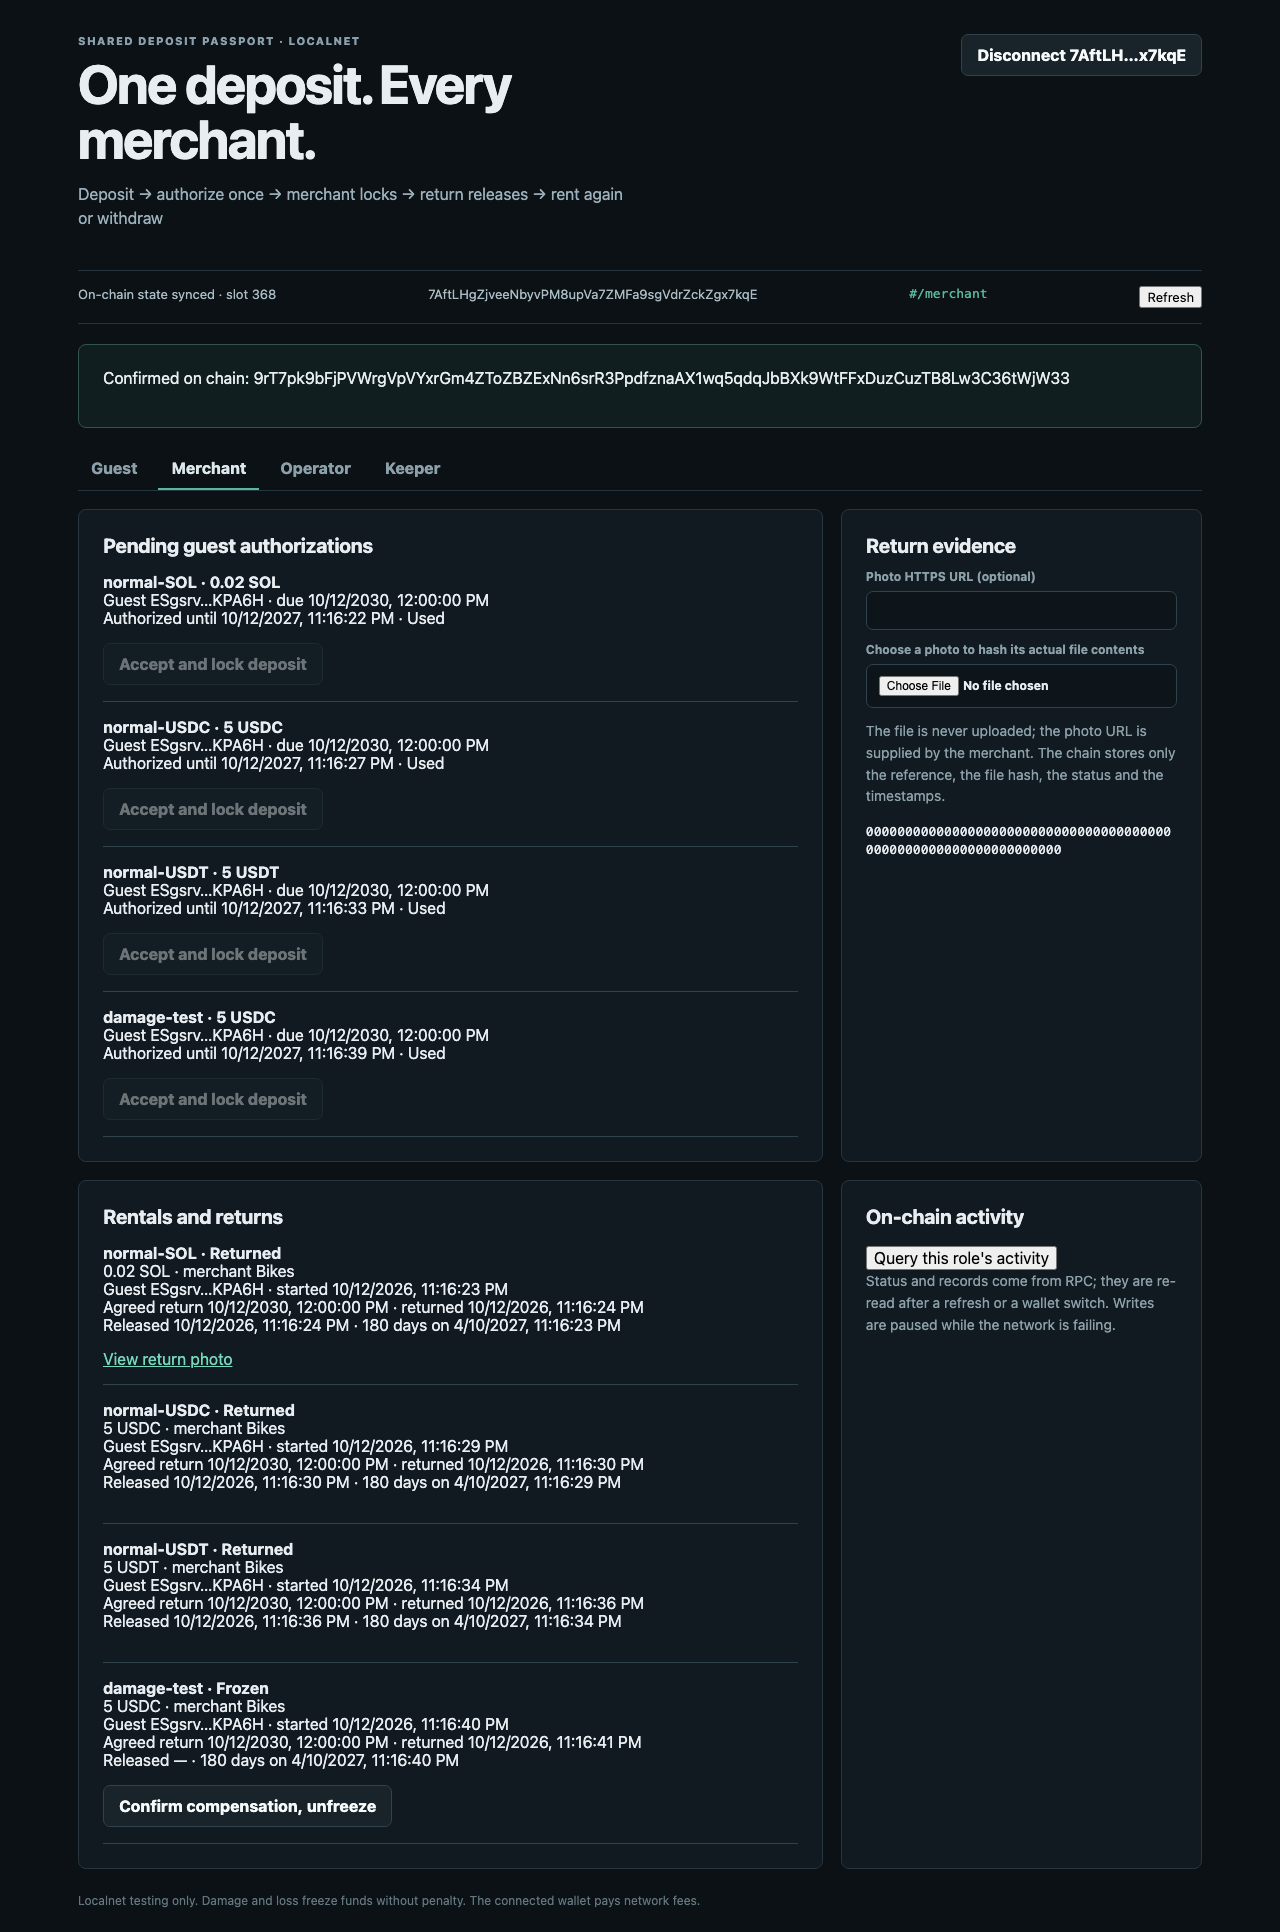
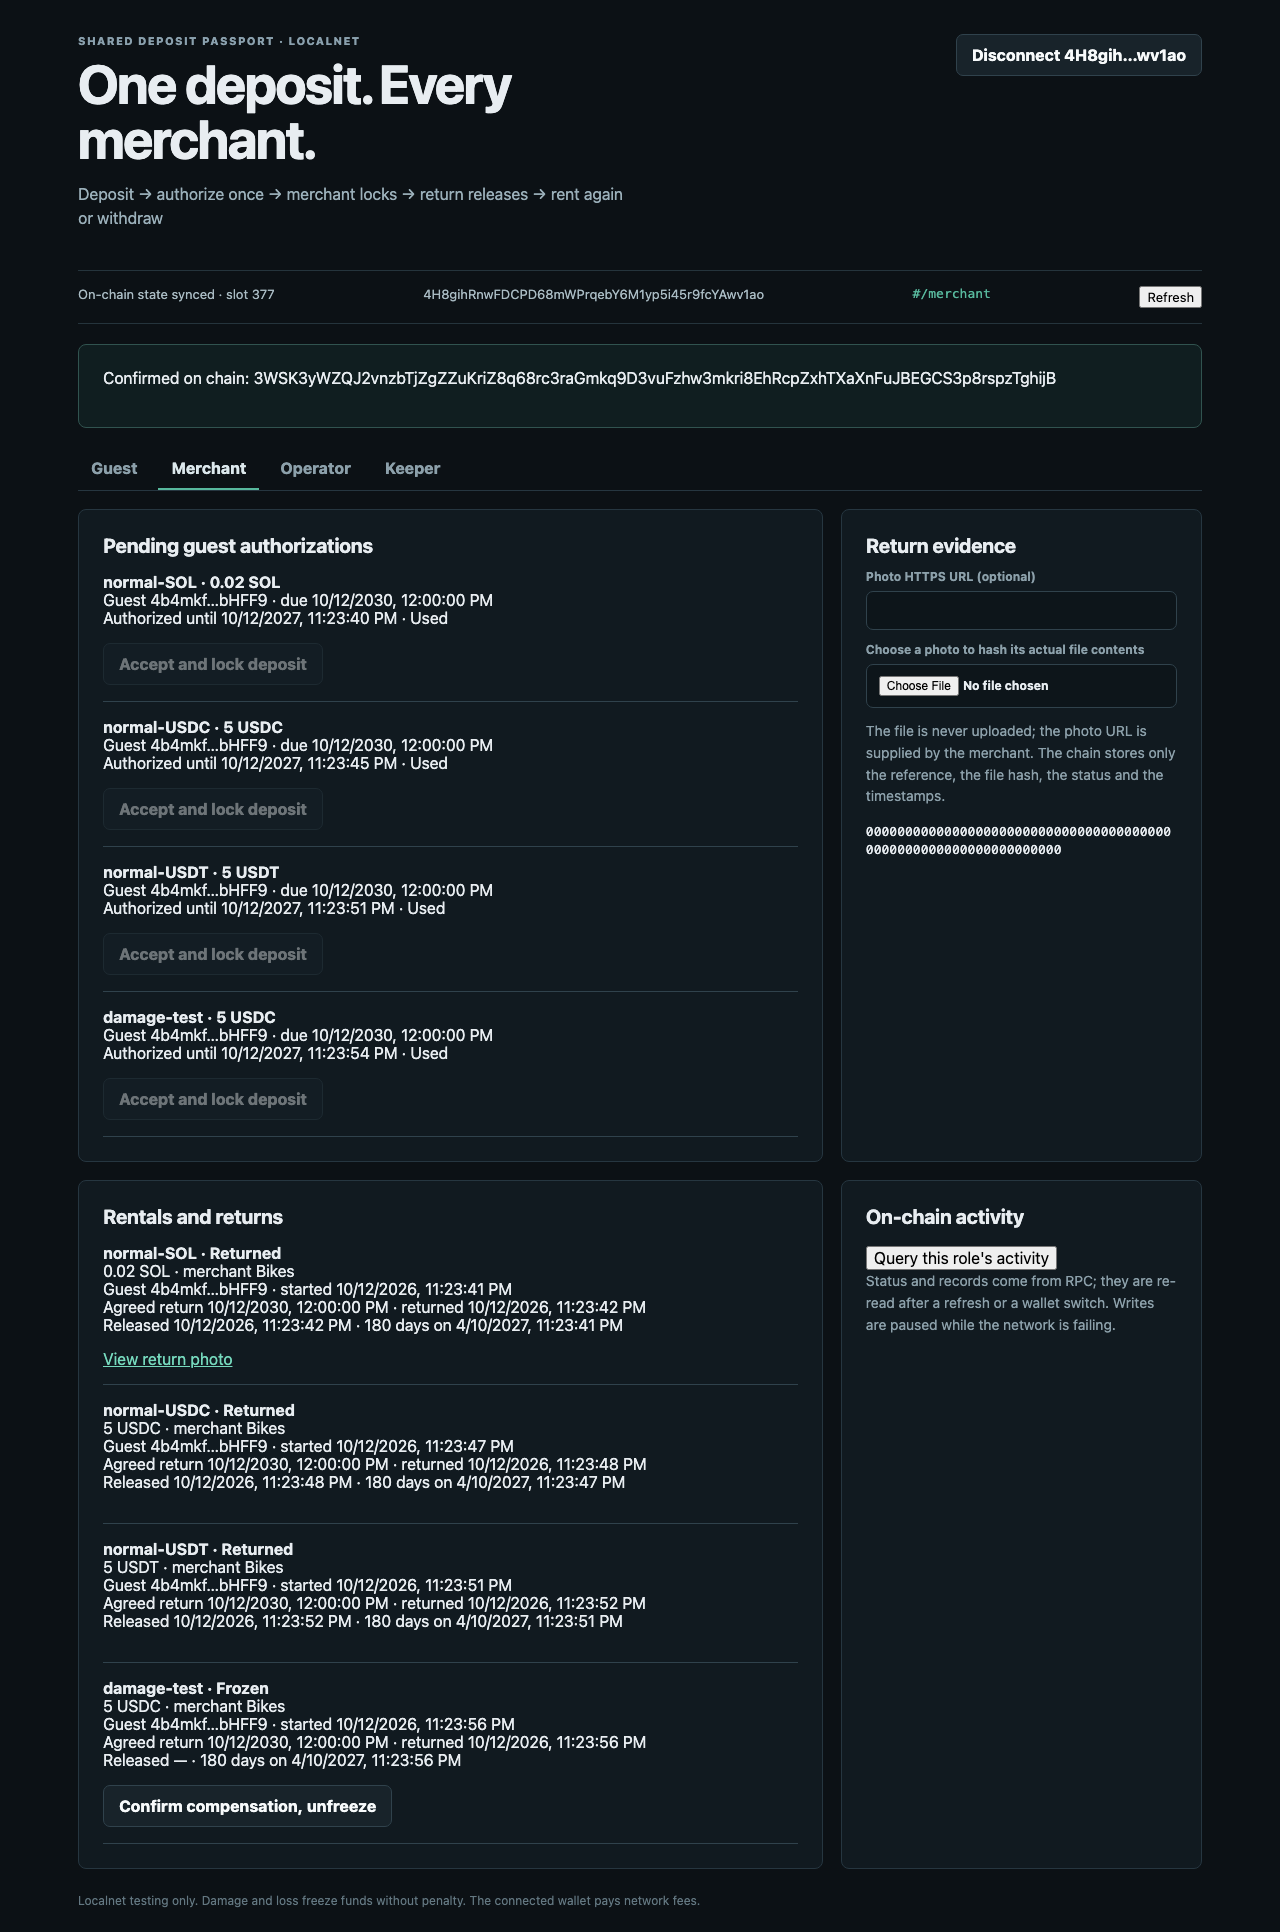
Describe the demo a judge can check without holding a key
The README told a visitor to switch to the merchant wallet and accept the lock. A judge
cannot do that: the merchants are wallets the developer holds, which is the whole point of
the product and the reason the video exists. Instructions that cannot be followed are worse
than no instructions, because they read as though the demo were open when it is not.

So the section now splits into what needs no key - the header band's live slot, and the
operator console's full platform, mint and merchant addresses - and what needs one wallet
of any kind, which is the platform's real audit trail, read from the platform account rather
than from the visitor's own. It closes by naming the part that genuinely needs a second
party, which is the part being recorded.

Three assertions back this rather than describe it: that the deployed build has no page
errors, console errors, failed requests or 4xx responses and prints a live slot, that the
addresses are on screen for a visitor with no wallet, and that a wallet unrelated to the
platform reads six real events - platform initialized, two merchants registered, and the
guest's passport, asset account and deposit. The history assertions are scoped to the
activity panel, because article.record also styles the merchant cards and an unscoped
locator was satisfied before any history existed, which is how the first version of this
test passed while proving nothing about history.
[…]

diff --git a/app/e2e/deployed.spec.ts b/app/e2e/deployed.spec.ts
@@ -7,11 +7,26 @@
  * is set, so the suite stays offline by default.
  *
  *   DEMO_URL=https://shared-passport.vercel.app npm run test:e2e
+ *
+ * The addresses below are this deployment's fixed values, recorded in DEPLOYMENT.md. They
+ * are pinned on purpose: if the demo is ever redeployed with a fresh platform, these
+ * checks should fail until someone looks at what changed, because a smoke test that
+ * passes against any deployment is not checking this one.
  */
 import { expect, test } from "@playwright/test";
+import { generateKeyPairSigner } from "@solana/kit";
+import { installWallets, loginAs, openConsole } from "./harness";
 
 const demoUrl = process.env.DEMO_URL;
 test.skip(!demoUrl, "set DEMO_URL to smoke-test a deployed build");
+
+const OPERATOR = "CMNgjVqaaopNCZTsKBzD2zVxxQHMrFejNiaQW9iVXrxF";
+const USDC_MINT = "5nhW64j6aE93mNUErsKReqNuVm7W62PTVz91WDosnTPo";
+const USDT_MINT = "r8AVDLFzWjeMXu9JXKKcnDsghuD4WK7Xs2xdPmg5VsC";
+const MERCHANTS = {
+  Bikes: "GASM7JmhynusMchjhWjRG6yjtQ9vknQszqgFwsKDVeV6",
+  Camping: "2sCWB4oaoqoy11w15oQJdv2QBqLWbwfK6fDZD5xzvBXL",
+} as const;
 
 test("the deployed build loads, reports devnet and reads the chain", async ({
   page,
@@ -39,13 +54,72 @@ test("the deployed build loads, reports devnet and reads the chain", async ({
 
   // It has to reach the cluster too, not just render. The header band prints the slot it
   // read, so a matching number is evidence of a live read rather than of static markup.
-  await expect(
-    page.getByText(/On-chain state synced \u00b7 slot \d+/),
-  ).toBeVisible({ timeout: 30_000 });
+  await expect(page.getByText(/On-chain state synced \u00b7 slot \d+/)).toBeVisible(
+    { timeout: 30_000 },
+  );
   await expect(page.getByText("Chain state is up to date.")).toBeVisible({
     timeout: 30_000,
   });
 
   await page.screenshot({ path: "test-results/deployed.png", fullPage: true });
   expect(problems).toEqual([]);
+});
+
+test("a visitor with no wallet can see the real platform, mints and merchants", async ({
+  page,
+}) => {
+  // This is the cheapest thing a judge can check, and it is the reason the README sends
+  // them here first: nothing has to be installed, and every value on screen is an address
+  // they can open in an explorer. Asserted because a deployment that renders a shell with
+  // empty placeholders would still pass a "does it load" test.
+  await page.goto(demoUrl!, { waitUntil: "load" });
+  await openConsole(page, "Operator");
+  await expect(page.getByText(OPERATOR)).toBeVisible({ timeout: 30_000 });
+  await expect(page.getByText(USDC_MINT)).toBeVisible();
+  await expect(page.getByText(USDT_MINT)).toBeVisible();
+  for (const [name, address] of Object.entries(MERCHANTS)) {
+    await expect(page.getByText(`${name} \u00b7 Enabled`)).toBeVisible();
+    await expect(page.getByText(address)).toBeVisible();
+  }
+
+  // Reading the activity needs no signature, but the button asks for a wallet first.
+  // Asserted as-is rather than described, so the README cannot claim otherwise.
+  await expect(
+    page.getByRole("button", { name: "Query this role's activity" }),
+  ).toBeDisabled();
+});
+
+test("a wallet from outside the demo can read the real activity", async ({
+  page,
+}) => {
+  // A judge has no key to this deployment, so the only way they can see the deposit and
+  // the two rentals is through an account they do not own. The operator console queries
+  // the platform account, not the wallet's own, and the history button only needs *a*
+  // wallet connected rather than the operator key - so this is a read-only path that any
+  // visitor can walk. Worth checking, because a claim that judges can verify the run
+  // themselves should not be a claim made from reading the code.
+  await installWallets(page, { Stranger: await generateKeyPairSigner() });
+  await page.goto(demoUrl!, { waitUntil: "load" });
+  await loginAs(page, "Stranger");
+  await openConsole(page, "Operator");
+
+  // Scoped to the activity panel: `article.record` is also how the merchant cards are
+  // styled, so an unscoped locator is satisfied before any history is on screen.
+  const activity = page.locator(".panel", {
+    has: page.getByRole("heading", { name: "On-chain activity" }),
+  });
+  await page.getByRole("button", { name: "Query this role's activity" }).click();
+  await expect(activity.locator("article.record").first()).toBeVisible({
+    timeout: 45_000,
+  });
+
+  // The names come from the program's own audit codes, so seeing them means the events
+  // were decoded off devnet rather than rendered from anything the app brought with it.
+  const rows = activity.locator("article.record");
+  await expect(rows.filter({ hasText: "Platform initialized" })).toHaveCount(1);
+  await expect(rows.filter({ hasText: "Merchant registered" })).toHaveCount(2);
+  // The passport, the asset account and the deposit were one transaction, so all three
+  // events carry the same signature.
+  await expect(rows.filter({ hasText: "Deposit" }).first()).toBeVisible();
+  await expect(rows.filter({ hasText: "Passport created" }).first()).toBeVisible();
 });

diff --git a/README.md b/README.md
@@ -75,15 +75,26 @@ persisted state from RPC.
 
 ## Try it in 30 seconds
 
-1. Open the live link, switch your wallet to **devnet**.
-2. Connect. The page reads the platform, merchants and your balances directly.
-3. Pick an asset, deposit, choose a merchant, set an item and a return time,
-   confirm the authorization.
-4. Switch to the merchant wallet. Accept and lock the deposit.
-5. Return the item. The amount is released back to your passport — and is now
-   spendable at the second merchant without depositing again.
+### With no wallet at all
 
-Step 5 is the whole product.
+- Open the live link. The header band prints the slot it just read from devnet.
+- Open the **Operator** console. It lists the platform operator, both test mints and both
+  registered merchants — as full addresses, every one of which opens in an explorer.
+
+### With any devnet wallet — yours, empty, unrelated
+
+- Still in the **Operator** console, click **Query this role's activity**. The history is
+  read from the *platform* account rather than from your wallet, so it shows what actually
+  happened on devnet: the platform initialized, two merchants registered, and a guest's
+  passport, asset account and deposit — those last three in a single transaction. Every
+  row carries the signature it came from.
+- If you hold a little devnet SOL, deposit and withdraw it. That path is yours alone and
+  needs nobody's permission, which is what an account the guest owns is for.
+
+The rest of the loop needs a second party: a lock is accepted by a *merchant* key, and the
+recorded demo's two merchants are wallets held by the developer. That is the part the video
+shows — and the activity above is how you confirm a rental happened without having to trust
+the video. Step by step: [DEMO-SCRIPT.md](DEMO-SCRIPT.md).
 
 ## Roles
 
@@ -134,6 +145,7 @@ is verified against the **actual compiled SBF program**:
 | Frozen-state rule | Frozen rentals do **not** auto-release at 180 days; only the original merchant can unfreeze after compensation |
 | Wallet-signed browser E2E | Full four-role flow with real Wallet Standard signatures, not mocked state |
 | Deliberate RPC failure | The response is dropped *after* the validator executed. The UI blocks new writes, survives a reload, and resolves the saved signature. The balance increases exactly once |
+| Deployed-build smoke test | The **live URL** in a real browser: zero page errors, console errors, failed requests and 4xx responses, a live slot read, and the platform's real audit trail read back with a wallet that holds none of the demo's keys |
 | Genesis check | Funds operations are blocked unless the RPC is genuinely devnet |
 
 Reproduce it yourself. No keys, no funded wallet and no network needed: the
@@ -142,8 +154,11 @@ suite starts its own validator and deploys the compiled program.
 ```bash
 cd app
 npm install && npx playwright install chromium
-npm test           # 10 unit and SBF integration tests, ~6s
+npm test           # 32 unit tests over the client's decoding and validation, ~6s
 npm run test:e2e   # 3 browser tests driving all four consoles, ~45s
+
+# The deployed build, against the URL above rather than a local validator:
+DEMO_URL=https://shared-passport.vercel.app npm run test:e2e
 ```
 
 The e2e run also regenerates the console screenshots above.
